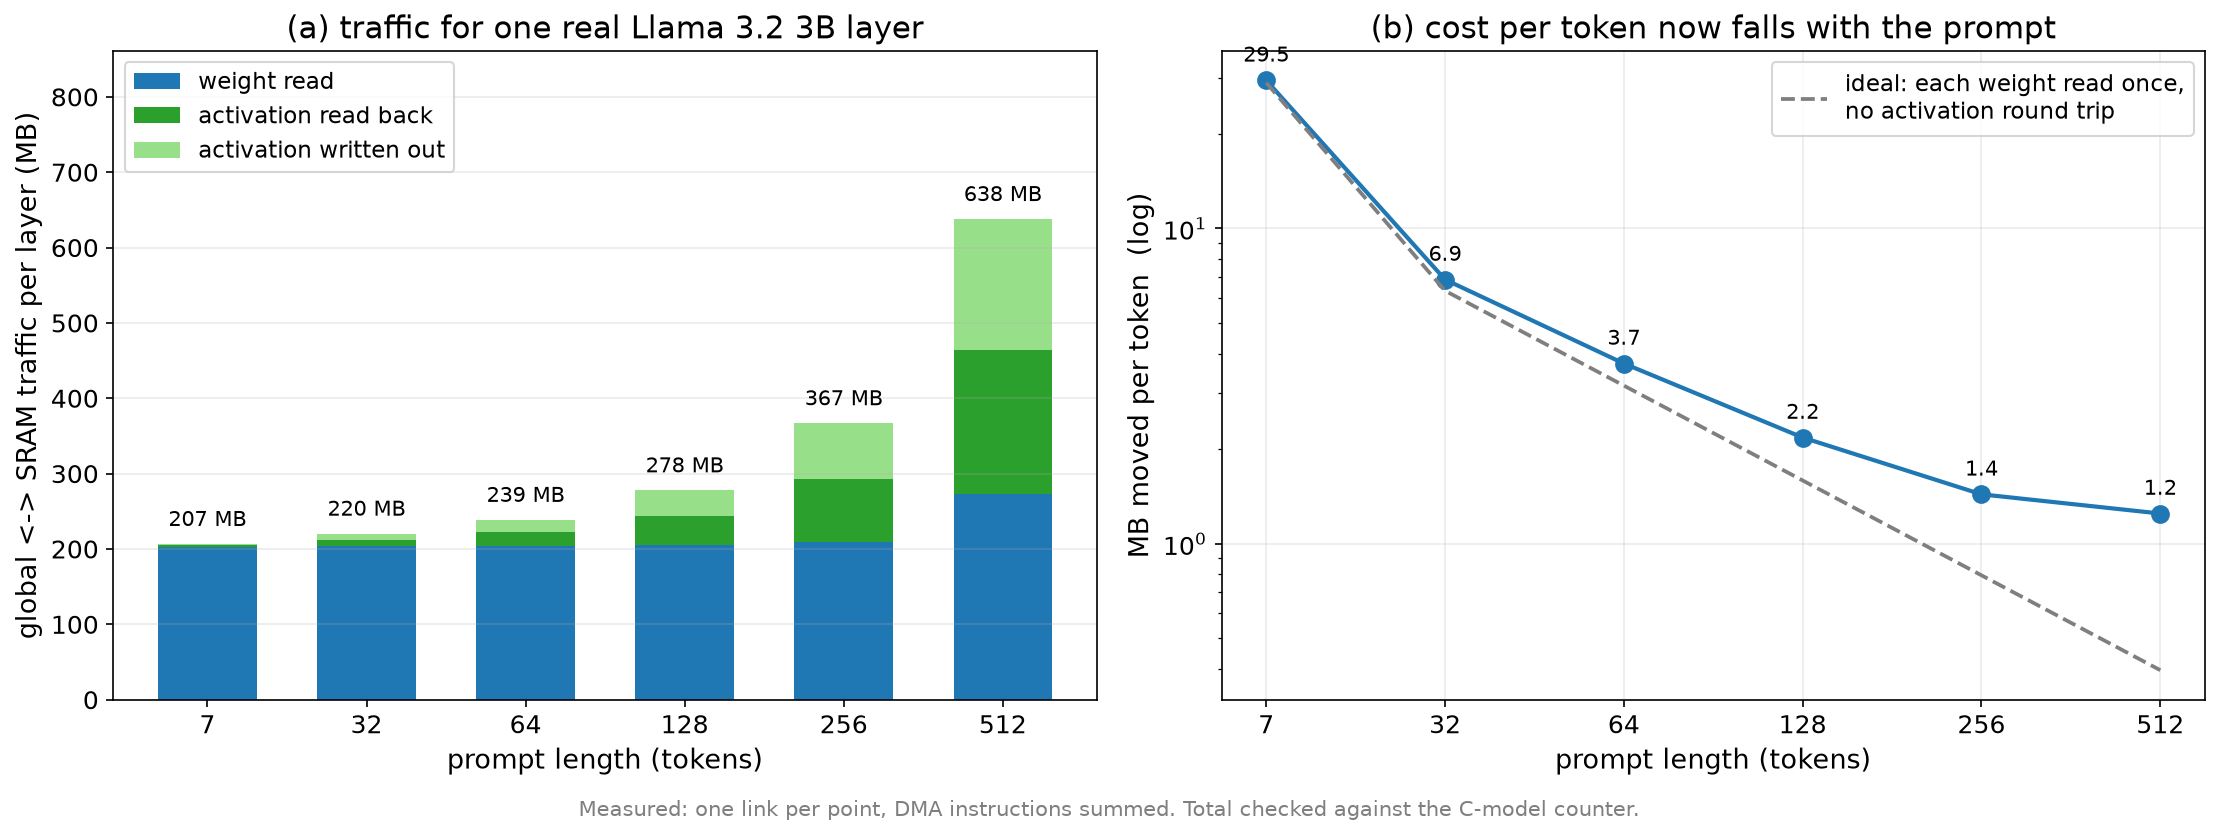
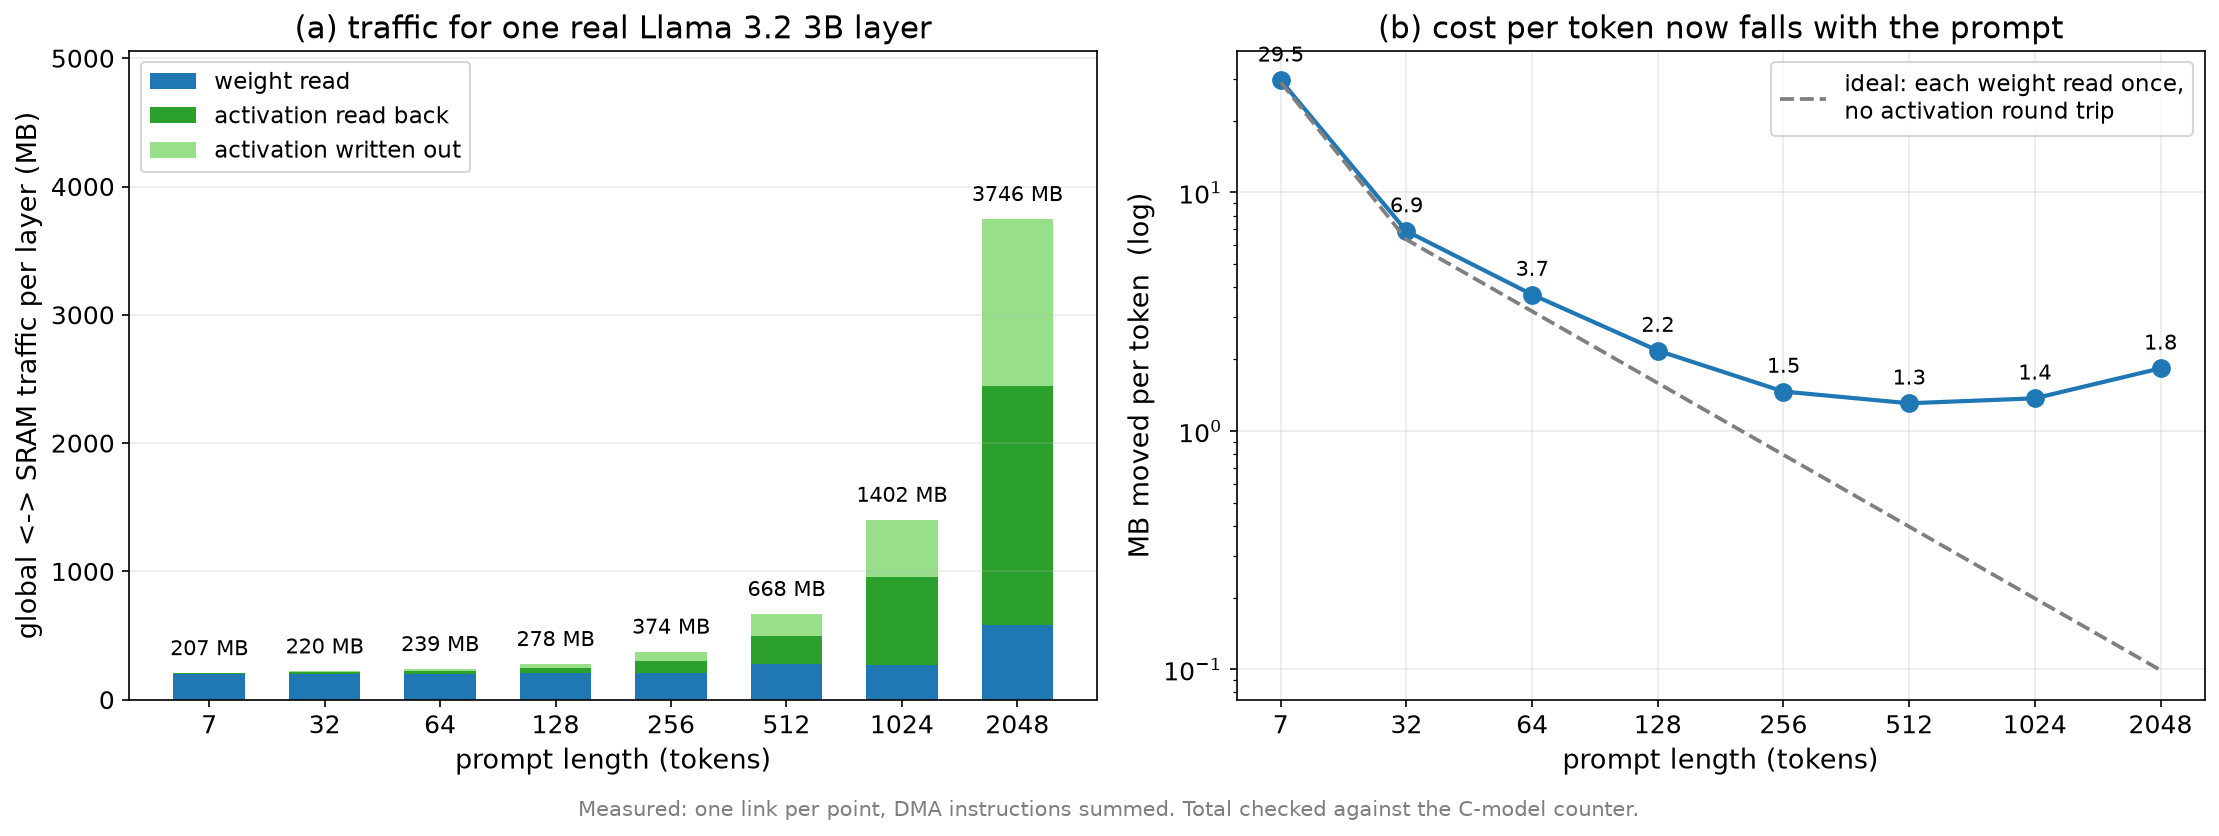
stripe multi-output kernels, and 2048 tokens
seq 1024 hit a new wall: split -- RoPE's two halves -- could not be striped.
15.4b's transformation anchors on the block writing the result and pulls the
rest inside it, but split has two independent output blocks, and a sibling is
not a producer of the anchor, so compute_at refuses.

Giving each result its own stripe loop shrank the outputs but left the input
staged whole at 12 MiB: both blocks read the same buffer, so cache_read makes
one shared cache, and one cache cannot sit under two different loops.
Restricting it with consumer_blocks gives each block a cache of just the half
it reads, [stripe, 24, 64] -- 24.00 MiB down to 0.05.

That costs something: the two halves now arrive as separate strided transfers,
so seq 512 traffic goes from 463.5 to 493.9 MB, about 6%.  It buys 1024 and
2048, which did not link at all.

  seq   traffic   weight   per token   SRAM peak   link
     7    207 MB   203.0     29.5 MB     1.23 MiB   4.5s
    64    239      204.0      3.7        3.09       3.6s
   128    278      205.4      2.2        6.09       4.4s
   256    374      209.5      1.5        6.09       6.4s
   512    668      275.8      1.3        7.54      10.8s
  1024  1,402      273.2      1.4        7.54      22.4s
  2048  3,746      582.6      1.8        7.54      44.9s

SRAM peak stops at 7.54 MiB regardless of length -- capacity is no longer the
binding constraint at any prompt size tested.  Weights stay within 1.36x of
reading each once through 1024.
[…]

diff --git a/d_compiler/npu_compiler/npu_intrin.py b/d_compiler/npu_compiler/npu_intrin.py
@@ -387,33 +387,48 @@ def schedule_generic_striped(mod, func_name, stripe):
     params = {prim.buffer_map[p].data for p in prim.params}
     output = prim.buffer_map[prim.params[-1]].data
 
-    # the block writing the kernel's result anchors the stripe loop
-    anchor = None
-    for block_rv in children:
-        block = sch.get(block_rv)
-        if block.writes and block.writes[0].buffer.data.same_as(output):
-            anchor = block_rv
-    if anchor is None:
+    # a kernel result is a parameter some block writes; there can be more than
+    # one (a split writes two), and then the blocks are siblings rather than a
+    # chain, so each result gets its own stripe loop
+    anchors = [rv for rv in children
+               if sch.get(rv).writes
+               and any(sch.get(rv).writes[0].buffer.data.same_as(p)
+                       for p in params)]
+    if not anchors:
         return None
-    anchor_name = sch.get(anchor).name_hint
-    loops = sch.get_loops(anchor)
-    if len(loops) < 2:
-        return None
-    outer, _ = sch.split(sch.fuse(*loops[:-1]), [None, stripe])
+    if len(anchors) > 1 and len(anchors) != len(children):
+        return None                # siblings mixed with producers: not handled
+    names = [sch.get(rv).name_hint for rv in anchors]
+    chain = len(anchors) == 1
 
-    # every other block produces something the result needs, so pulling them
-    # under the stripe loop is what shrinks their buffers too; nearest
-    # producer first, which is the order compute_at can verify
-    for block_rv in reversed(children):
-        if sch.get(block_rv).name_hint == anchor_name:
-            continue
-        try:
-            sch.compute_at(block_rv, outer)
-        except Exception:
+    outers = {}
+    for anchor, name in zip(anchors, names):
+        loops = sch.get_loops(anchor)
+        if len(loops) < 2:
             return None
+        outers[name], _ = sch.split(sch.fuse(*loops[:-1]), [None, stripe])
+
+    if chain:
+        # every other block produces something the result needs, so pulling
+        # them under the stripe loop is what shrinks their buffers too;
+        # nearest producer first, which is the order compute_at can verify
+        outer = outers[names[0]]
+        for block_rv in reversed(children):
+            if sch.get(block_rv).name_hint == names[0]:
+                continue
+            try:
+                sch.compute_at(block_rv, outer)
+            except Exception:
+                return None
 
     def blocks():
         return sch.get_child_blocks(sch.get_block("root", func_name=func_name))
+
+    def outer_for(block_rv):
+        """The stripe loop this block's staging belongs to."""
+        if chain:
+            return outers[names[0]]
+        return outers.get(sch.get(block_rv).name_hint)
 
     # from here the three steps are schedule_generic_sram's, with the staging
     # placed at the stripe loop instead of the whole loop nest
@@ -429,18 +444,25 @@ def schedule_generic_striped(mod, func_name, stripe):
                 pass
 
     for block_rv in blocks():
-        if sch.get(block_rv).name_hint == anchor_name:
+        name = sch.get(block_rv).name_hint
+        if name in names:
             sch.reverse_compute_at(sch.cache_write(block_rv, 0, SRAM_SCOPE),
-                                   outer)
-            break
+                                   outers[name])
 
     for block_rv in blocks():
         block = sch.get(block_rv)
+        outer = outer_for(block_rv)
+        if outer is None:
+            continue
         for index, region in enumerate(block.reads):
             if region.buffer.data in params:
                 try:
-                    sch.compute_at(sch.cache_read(block_rv, index, SRAM_SCOPE),
-                                   outer)
+                    # restricted to this consumer: sibling results (a split's
+                    # two halves) read the same input but live under different
+                    # stripe loops, and one shared cache could not sit in both
+                    stage = sch.cache_read(block_rv, index, SRAM_SCOPE,
+                                           consumer_blocks=[block_rv])
+                    sch.compute_at(stage, outer)
                 except Exception:
                     pass
     return sch.mod

diff --git a/d_compiler/tests/test_long_prompt.py b/d_compiler/tests/test_long_prompt.py
@@ -34,7 +34,7 @@ from npu_compiler import tvm_pipeline as pipeline
 from npu_compiler.nn_models import llama
 from test_nn_frontend import _reference
 
-SEQS = (64, 128, 256, 512)
+SEQS = (64, 128, 256, 512, 1024)
 # measured 0.999997 at seq 64 and 0.999996 at 128 -- the machine accumulates
 # in fp32, so only the fp16 activations cost anything.  A staging or tiling
 # error moves this far below the threshold rather than nudging it.

diff --git a/report/report_0901.md b/report/report_0901.md
@@ -854,6 +854,43 @@ affine이 아니게 되면서 `compute_at`이 거부됐다 — 그 커널만 조
 정확성: `tests/test_long_prompt.py`가 seq 64~512에서 cosine 0.999995~0.999997
 유지, 28층 게이트 15,285,893 word · token 358 · cosine 0.9999927 불변.
 
+### 15.4d 다중 출력 커널과 2048 토큰까지 (2026-09-07)
+
+seq 1024에서 다시 벽이 나왔다 — `split`(RoPE의 앞/뒤 절반)이 **striping
+불가**였다. 원인은 이 커널이 **독립적인 출력 블록 두 개**라 사슬이 아니라는
+것이다. 15.4b의 변환은 출력 블록 하나를 anchor로 잡고 나머지를 그 안으로
+`compute_at` 하는데, 형제 블록은 anchor의 생산자가 아니므로 거부된다.
+
+**출력마다 자기 stripe 루프를 갖게** 하니 출력 버퍼는 줄었으나 입력 스테이징이
+`[2048,24,128]` 12 MiB로 그대로 남았다. 두 블록이 **같은 입력을 읽어 공유
+캐시가 만들어지고, 서로 다른 루프에 동시에 있을 수 없기 때문**이다.
+`cache_read(..., consumer_blocks=[block])`으로 소비자를 한정하니 각자 자기가
+읽는 절반 `[stripe,24,64]`만 스테이징한다 — **24.00 → 0.05 MiB**.
+
+대가가 있다: 두 절반이 각각 strided로 올라와 seq 512 트래픽이
+463.5 → 493.9 MB로 **6% 늘었다**. 대신 1024·2048이 열린다.
+
+| seq | 트래픽 | weight | 토큰당 | SRAM peak | 링크 |
+|---|---|---|---|---|---|
+| 7 | 207 MB | 203.0 | 29.5 MB | 1.23 MiB | 4.5s |
+| 64 | 239 | 204.0 | 3.7 | 3.09 | 3.6s |
+| 128 | 278 | 205.4 | 2.2 | 6.09 | 4.4s |
+| 256 | 374 | 209.5 | 1.5 | 6.09 | 6.4s |
+| 512 | 668 | 275.8 | 1.3 | 7.54 | 10.8s |
+| 1024 | 1,402 | 273.2 | **1.4** | 7.54 | 22.4s |
+| 2048 | 3,746 | 582.6 | 1.8 | 7.54 | 44.9s |
+
+**SRAM peak이 길이와 무관하게 7.54 MiB에서 멈춘다** — 용량은 더 이상 제약이
+아니다. weight는 1024까지 거의 1회 적재(273 MB ≈ 텐서 총량 201 MB의 1.36배)를
+유지하다가 2048에서 2배로 늘어난다.
+
+토큰당 비용은 512에서 1.3 MB로 바닥을 찍고 2048에서 1.8로 다시 오른다.
+남은 항은 **어텐션의 S²**다: `scores[24,S,S]`가 2048에서 201 MB로 자라
+활성화 트래픽을 지배한다. 이것은 배치로 풀 수 없고 §15.5의 Loop C —
+FlashAttention식 그래프 재작성 — 이 남은 이유다.
+
+정확성은 seq 1024까지 확인됐다(`tests/test_long_prompt.py`, cosine 0.999994).
+
 ## 16. 양자화(W8A16): Q/DQ 그래프는 어떻게 처리되나
 
 ### 16.1 구조로 해결한 Q/DQ — "fusion pass"가 필요 없게 설계
